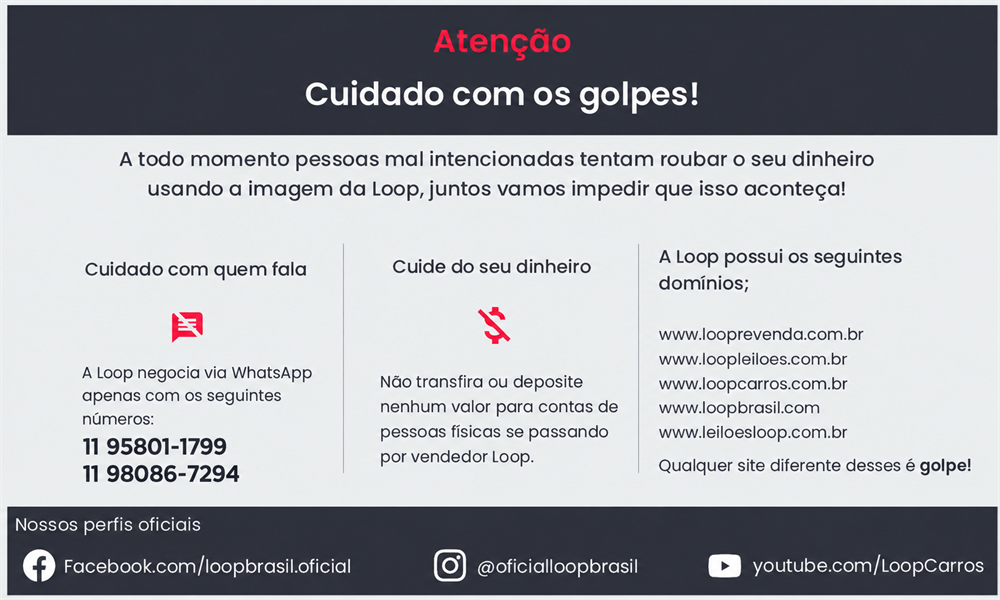
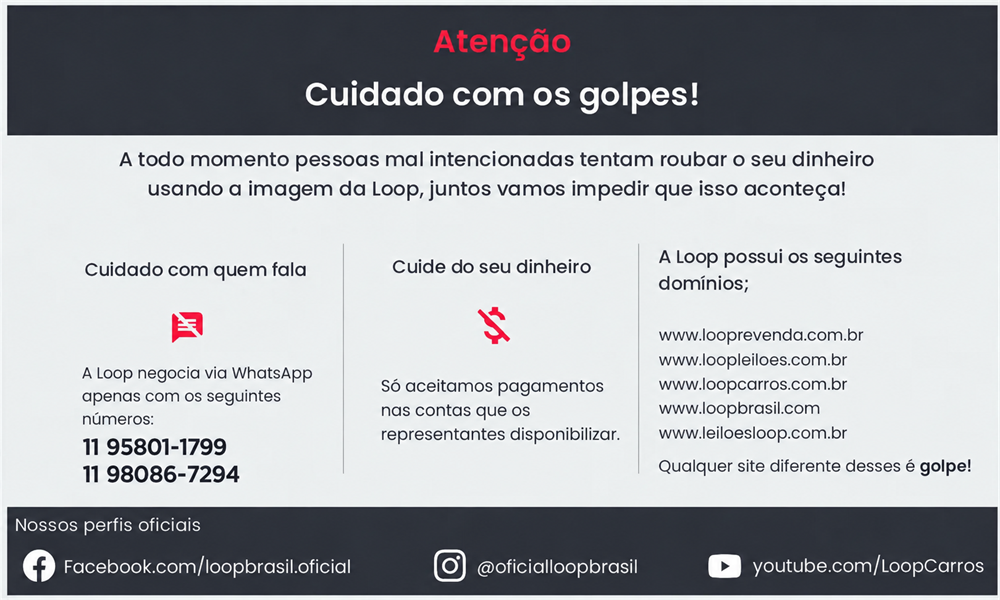
Atualiza aviso anti-golpe

diff --git a/s/loopleiloes.com.br/_next/static/chunks/pages/index-9bd418cb92a1996f.js b/s/loopleiloes.com.br/_next/static/chunks/pages/index-9bd418cb92a1996f.js
@@ -2589,7 +2589,7 @@
                                 children: (0, a.jsx)(Fe.Z, {})
                             }), (0, a.jsx)("div", {
                                 children: (0, a.jsx)("img", {
-                                    src: "https://objectstorage.sa-saopaulo-1.oraclecloud.com/n/loopbrasil/b/assets/o/leilao%2Fmodal-anti-golpe.png?v=20260921-3",
+                                    src: "https://objectstorage.sa-saopaulo-1.oraclecloud.com/n/loopbrasil/b/assets/o/leilao%2Fmodal-anti-golpe.png?v=20260921-4",
                                     alt: "Modal de aviso anti-golpes"
                                 })
                             })]
